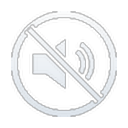
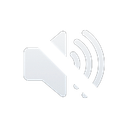
Refine crane controls and mute artwork

diff --git a/src/pytrain_ui/qt/qml/CabView.qml b/src/pytrain_ui/qt/qml/CabView.qml
@@ -423,6 +423,9 @@ Rectangle {
             pantograph_both_up: "panto-up-a", pantograph_both_down: "panto-down-a",
             tower_chatter: "tower", ROLL: "roll",
             crane_front_lamp: "crane-front-lamp", crane_rear_lamp: "crane-rear-lamp",
+            crane_boom: "crane-boom", crane_outriggers: "crane-outriggers",
+            crane_main_hook: "crane-main-hook", crane_aux_hook: "crane-aux-hook",
+            crane_radio: "crew", crane_sound_on: "car-sound-on", crane_sound_off: "car-sound-off",
             smoke_down: cab.isSteam ? "smoke-steam-down" : "smoke-diesel-down",
             smoke_up: cab.isSteam ? "smoke-steam-up" : "smoke-diesel-up",
             rear_coupler: "coupler-rear", front_coupler: "coupler-front",

diff --git a/src/pytrain_ui/qt/qml/FunctionButton.qml b/src/pytrain_ui/qt/qml/FunctionButton.qml
@@ -89,7 +89,6 @@ Control {
                 source: root.iconSource
                 fillMode: Image.PreserveAspectFit
                 smooth: true
-                mipmap: true
             }
         }
 
@@ -101,7 +100,6 @@ Control {
             Layout.preferredWidth: Math.min(root.iconSize, root.availableWidth)
             Layout.preferredHeight: Layout.preferredWidth
             fillMode: Image.PreserveAspectFit
-            mipmap: true
             transform: Translate { y: root.visualPressed ? 2 : 0 }
         }
 

diff --git a/src/pytrain_ui/qt/qml/BellHornPopup.qml b/src/pytrain_ui/qt/qml/BellHornPopup.qml
@@ -59,7 +59,6 @@ Popup {
                 source: button.artwork
                 visible: source.toString().length > 0 && status === Image.Ready
                 fillMode: Image.PreserveAspectFit
-                mipmap: true
             }
         }
         background: Item {

diff --git a/src/pytrain_ui/qt/qml/BackspaceIcon.qml b/src/pytrain_ui/qt/qml/BackspaceIcon.qml
@@ -32,6 +32,5 @@ Item {
         sourceSize.height: 102
         fillMode: Image.PreserveAspectFit
         smooth: true
-        mipmap: true
     }
 }
